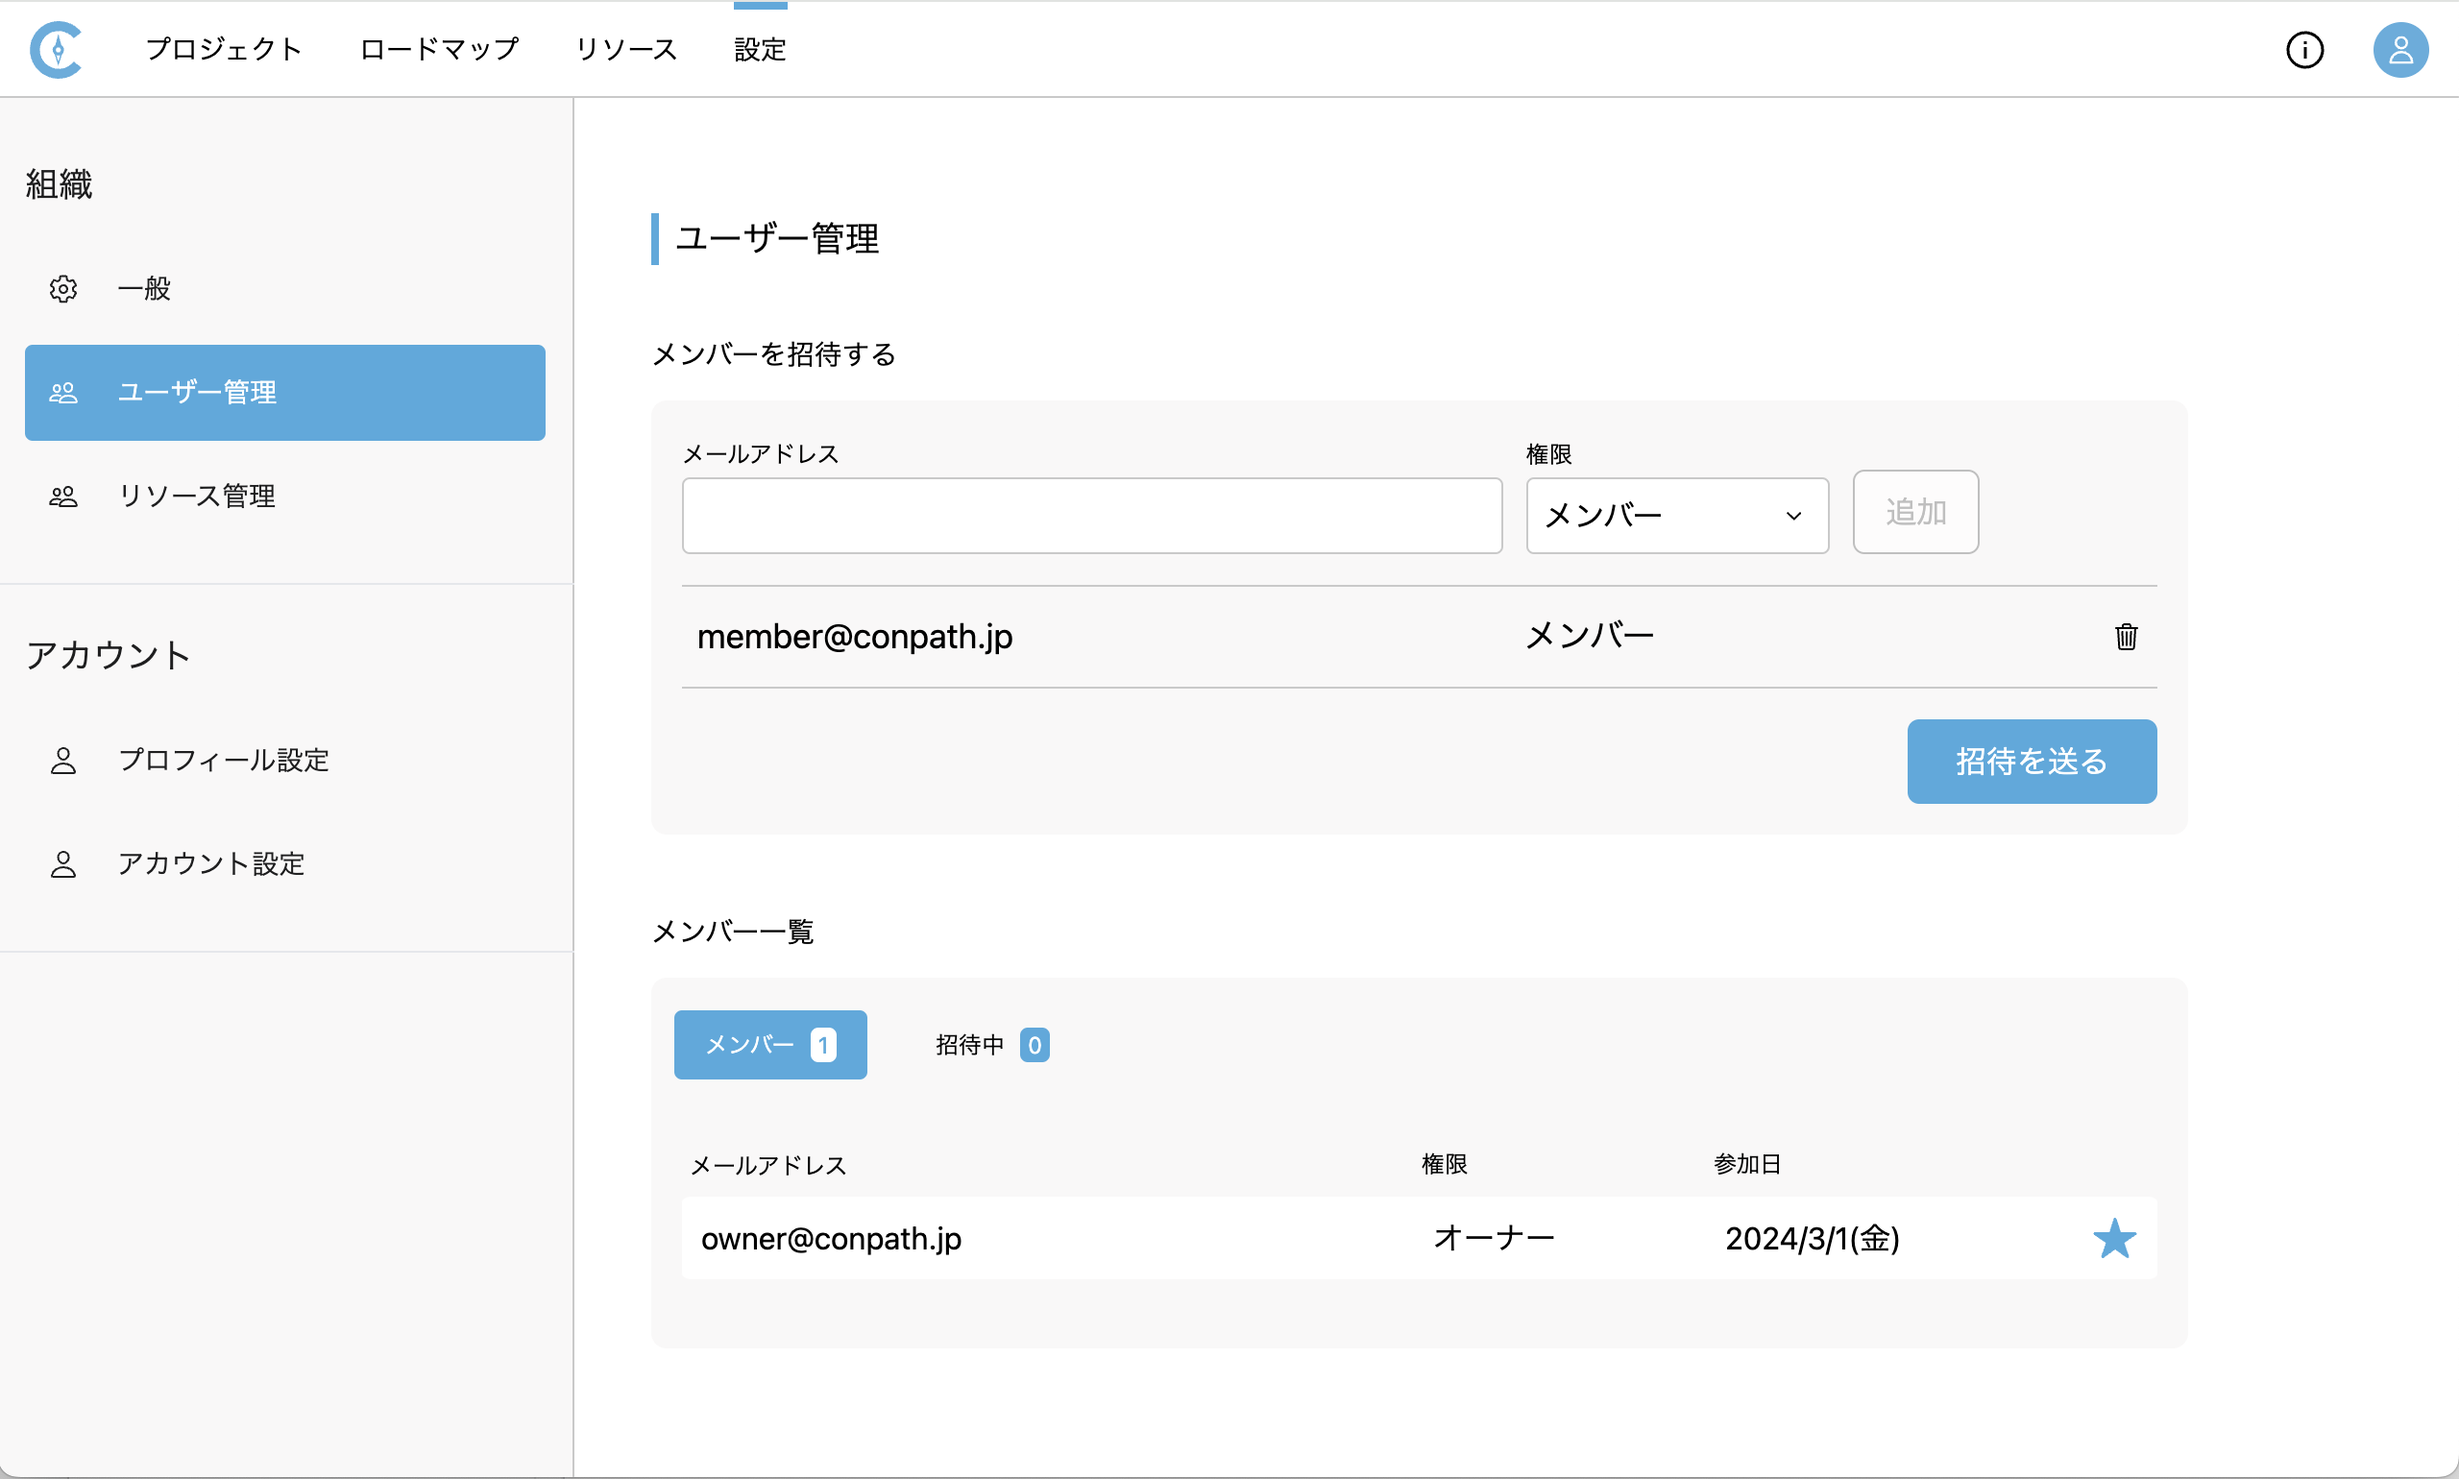
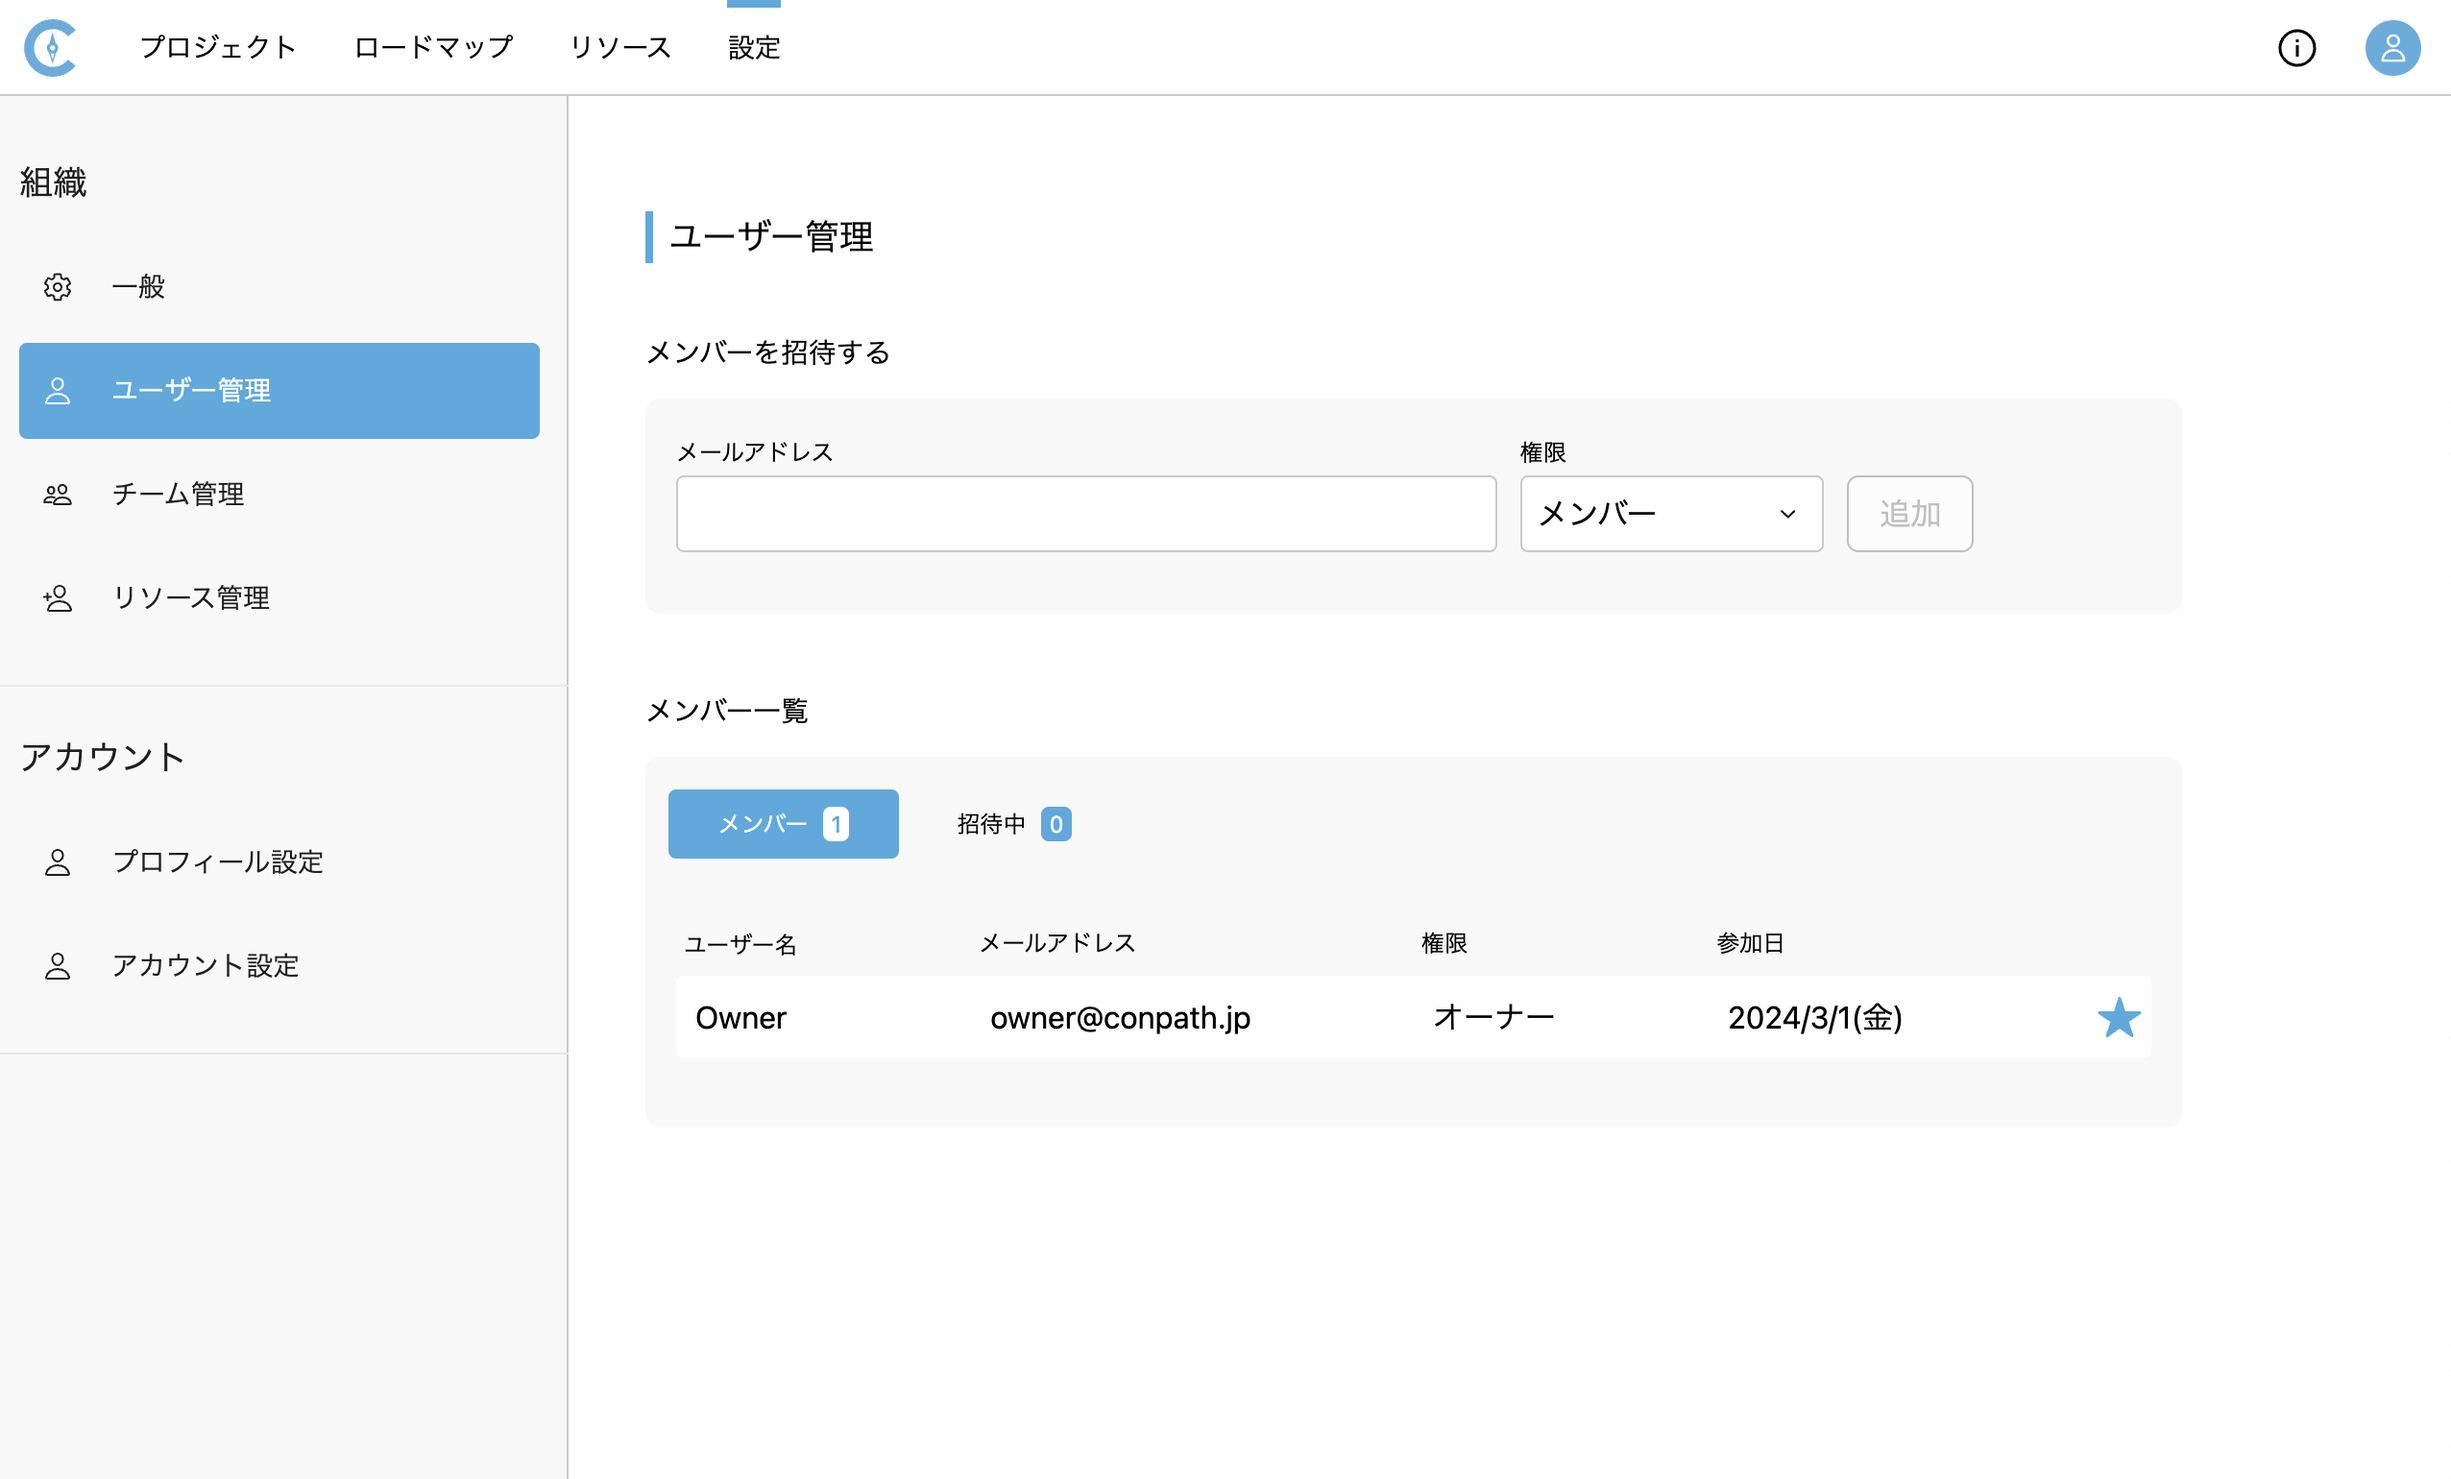
変更履歴の更新、ユーザー管理の画像差し替え

diff --git a/settings/users/index.md b/settings/users/index.md
@@ -39,6 +39,20 @@ has_children: false
    <img src="/assets/images/settings/users/2.png" width="100%">
    </td></tr></table>
 
+   所属するチームを選択する場合、[...]のドロップダウンメニューから[チームを選択する]を選択します。
+
+   <table><tr><td>
+   <img src="/assets/images/settings/users/3.png" width="100%">
+   </td></tr></table>
+
+   <table><tr><td>
+   <img src="/assets/images/settings/users/4.png" width="100%">
+   </td></tr></table>
+
+   <table><tr><td>
+   <img src="/assets/images/settings/users/5.png" width="100%">
+   </td></tr></table>
+
 4. 追加したメールアドレス宛に招待メールが届きます。
 
 {: .note }
@@ -69,13 +83,13 @@ has_children: false
 2. メンバー一覧のメンバータブがアクティブになっている状態で、[...]のドロップダウンメニューから[ユーザー情報の編集]をクリックします。
 
    <table><tr><td>
-   <img src="/assets/images/settings/users/3.png" width="100%">
+   <img src="/assets/images/settings/users/6.png" width="100%">
    </td></tr></table>
 
 3. ユーザーの情報を入力し、[変更する]ボタンをクリックします。
 
    <table><tr><td>
-   <img src="/assets/images/settings/users/4.png" width="50%">
+   <img src="/assets/images/settings/users/7.png" width="50%">
    </td></tr></table>
 
 {: .note }
@@ -87,7 +101,7 @@ has_children: false
 2. メンバー一覧の招待中タブがアクティブになっている状態で、[...]のドロップダウンメニューから[招待をキャンセルする]をクリックします。
 
    <table><tr><td>
-   <img src="/assets/images/settings/users/5.png" width="100%">
+   <img src="/assets/images/settings/users/8.png" width="100%">
    </td></tr></table>
 
 {: .note }
@@ -99,7 +113,7 @@ has_children: false
 2. メンバー一覧のメンバータブがアクティブになっている状態で、[...]のドロップダウンメニューから[退会させる]をクリックします。
 
    <table><tr><td>
-   <img src="/assets/images/settings/users/6.png" width="100%">
+   <img src="/assets/images/settings/users/9.png" width="100%">
    </td></tr></table>
 
 {: .note }

diff --git a/resources/index.md b/resources/index.md
@@ -86,7 +86,6 @@ has_children: true
 
   | 検索項目 | 検索結果 |
   | ---- | ---- |
-  | ステータス | タスクの[完了]と[未完了]で検索することができます。<br><span style="color:gray; font-size:12px">デフォルトは[未完了]のものを検索しています。</span> |
   | 担当者 | タスクに登録された担当者で検索できます。 |
   | リソース | タスクに登録された関連リソースで検索することができます。 |
   | プロジェクト | 特定のプロジェクトで検索することができます。 |

diff --git a/CHANGELOG.md b/CHANGELOG.md
@@ -10,7 +10,8 @@ layout: default
 ## Release v1.3.0
 
 ### 新機能
-- プロジェクトの印刷時に、印刷ヘッダーや印刷方法などを変更できるようになりました
+- [プロジェクトの印刷](/projects/manage-project/#プロジェクトを印刷する)時に、印刷ヘッダーや印刷方法などのオプションが選択できるようになりました
+- 組織にメンバーを招待する際に、所属するチームを選択できるようになりました
 
 ## Release v1.2.0
 
